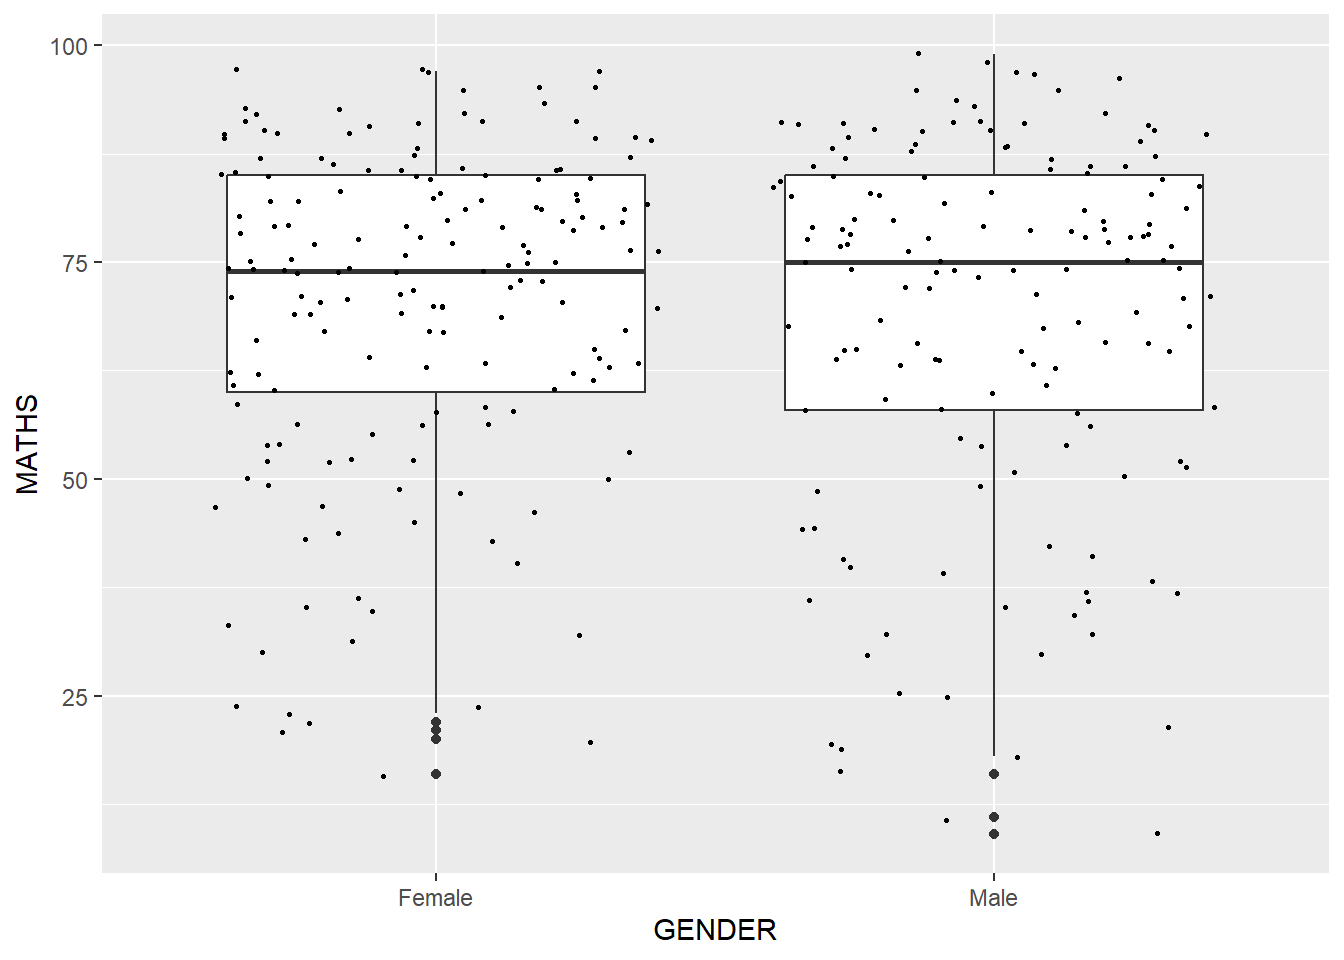
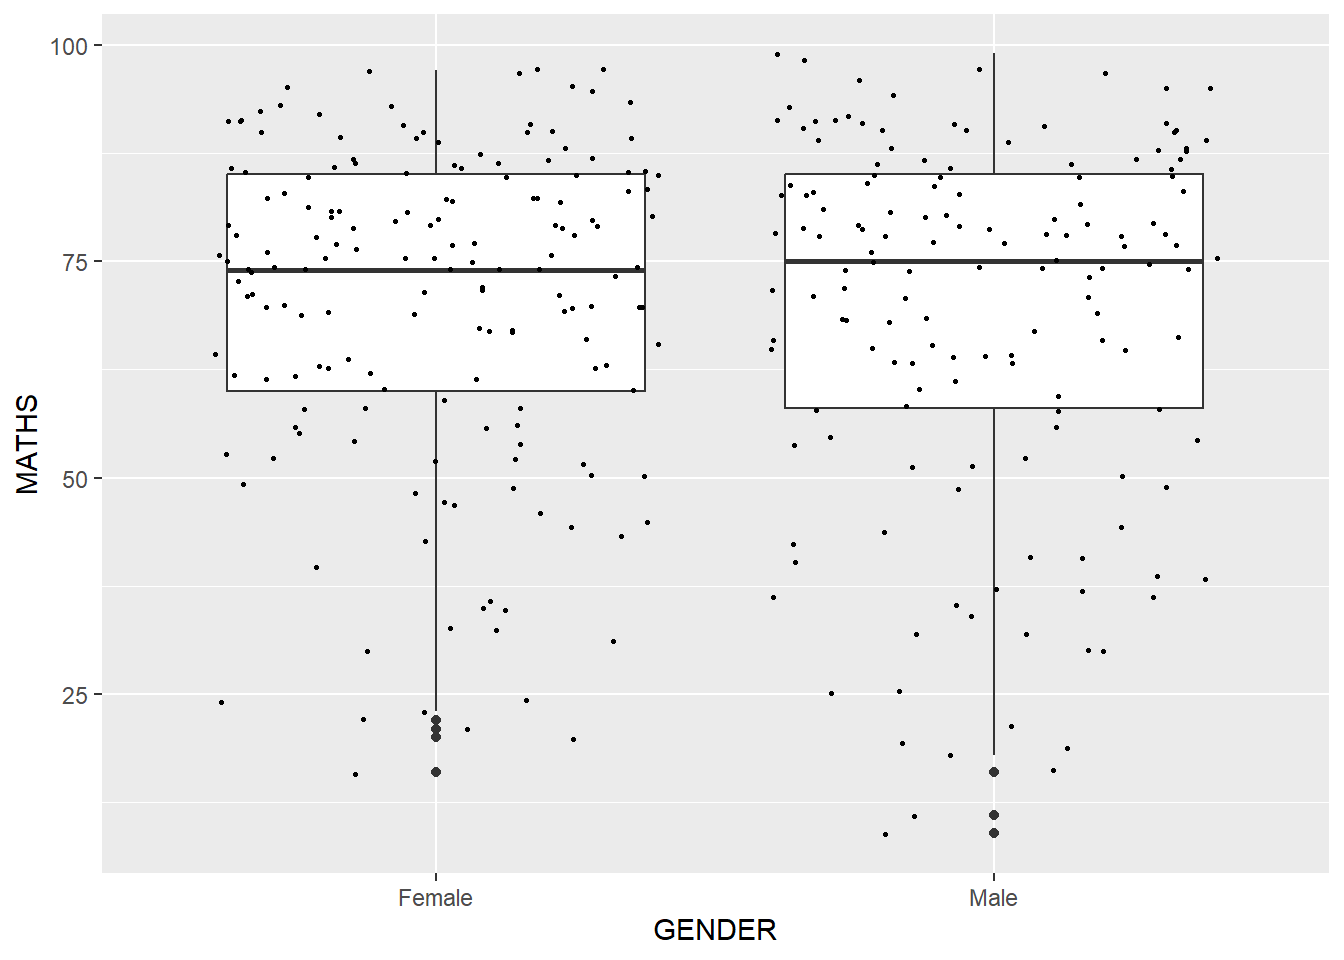
take-home Ex01

diff --git a/_site/Hands-on_Ex/Hands-on_Ex01/Hands-on_Ex01.html b/_site/Hands-on_Ex/Hands-on_Ex01/Hands-on_Ex01.html
@@ -151,10 +151,9 @@ pre > code.sourceCode > span > a:first-child::before { text-decoration: underlin
  <span class="menu-text">Take-home Exercise</span>
     </a>
     <ul class="dropdown-menu" aria-labelledby="nav-menu-take-home-exercise">    
-        <li class="dropdown-header">Take-home Exercise 1</li>
         <li>
     <a class="dropdown-item" href="../../Take-home_Ex/Take-home_Ex01/Take-Home_Ex01.html">
- <span class="dropdown-text"></span></a>
+ <span class="dropdown-text">Take-home Exercise 1</span></a>
   </li>  
     </ul>
   </li>

diff --git a/_site/Hands-on_Ex/Hands-on_Ex02/Hands-on_Ex02.html b/_site/Hands-on_Ex/Hands-on_Ex02/Hands-on_Ex02.html
@@ -151,10 +151,9 @@ pre > code.sourceCode > span > a:first-child::before { text-decoration: underlin
  <span class="menu-text">Take-home Exercise</span>
     </a>
     <ul class="dropdown-menu" aria-labelledby="nav-menu-take-home-exercise">    
-        <li class="dropdown-header">Take-home Exercise 1</li>
         <li>
     <a class="dropdown-item" href="../../Take-home_Ex/Take-home_Ex01/Take-Home_Ex01.html">
- <span class="dropdown-text"></span></a>
+ <span class="dropdown-text">Take-home Exercise 1</span></a>
   </li>  
     </ul>
   </li>

diff --git a/_site/Hands-on_Ex/Hands-on_Ex03/Hans-on_Ex03.html b/_site/Hands-on_Ex/Hands-on_Ex03/Hans-on_Ex03.html
@@ -169,10 +169,9 @@ pre > code.sourceCode > span > a:first-child::before { text-decoration: underlin
  <span class="menu-text">Take-home Exercise</span>
     </a>
     <ul class="dropdown-menu" aria-labelledby="nav-menu-take-home-exercise">    
-        <li class="dropdown-header">Take-home Exercise 1</li>
         <li>
     <a class="dropdown-item" href="../../Take-home_Ex/Take-home_Ex01/Take-Home_Ex01.html">
- <span class="dropdown-text"></span></a>
+ <span class="dropdown-text">Take-home Exercise 1</span></a>
   </li>  
     </ul>
   </li>

diff --git a/_site/Take-home_Ex/Take-home_Ex01/Take-Home_Ex01.html b/_site/Take-home_Ex/Take-home_Ex01/Take-Home_Ex01.html
@@ -151,10 +151,9 @@ pre > code.sourceCode > span > a:first-child::before { text-decoration: underlin
  <span class="menu-text">Take-home Exercise</span>
     </a>
     <ul class="dropdown-menu" aria-labelledby="nav-menu-take-home-exercise">    
-        <li class="dropdown-header">Take-home Exercise 1</li>
         <li>
     <a class="dropdown-item" href="../../Take-home_Ex/Take-home_Ex01/Take-Home_Ex01.html">
- <span class="dropdown-text"></span></a>
+ <span class="dropdown-text">Take-home Exercise 1</span></a>
   </li>  
     </ul>
   </li>

diff --git a/_site/about.html b/_site/about.html
@@ -150,10 +150,9 @@ pre > code.sourceCode > span > a:first-child::before { text-decoration: underlin
  <span class="menu-text">Take-home Exercise</span>
     </a>
     <ul class="dropdown-menu" aria-labelledby="nav-menu-take-home-exercise">    
-        <li class="dropdown-header">Take-home Exercise 1</li>
         <li>
     <a class="dropdown-item" href="./Take-home_Ex/Take-home_Ex01/Take-Home_Ex01.html">
- <span class="dropdown-text"></span></a>
+ <span class="dropdown-text">Take-home Exercise 1</span></a>
   </li>  
     </ul>
   </li>

diff --git a/_site/index.html b/_site/index.html
@@ -116,10 +116,9 @@ ul.task-list li input[type="checkbox"] {
  <span class="menu-text">Take-home Exercise</span>
     </a>
     <ul class="dropdown-menu" aria-labelledby="nav-menu-take-home-exercise">    
-        <li class="dropdown-header">Take-home Exercise 1</li>
         <li>
     <a class="dropdown-item" href="./Take-home_Ex/Take-home_Ex01/Take-Home_Ex01.html">
- <span class="dropdown-text"></span></a>
+ <span class="dropdown-text">Take-home Exercise 1</span></a>
   </li>  
     </ul>
   </li>
